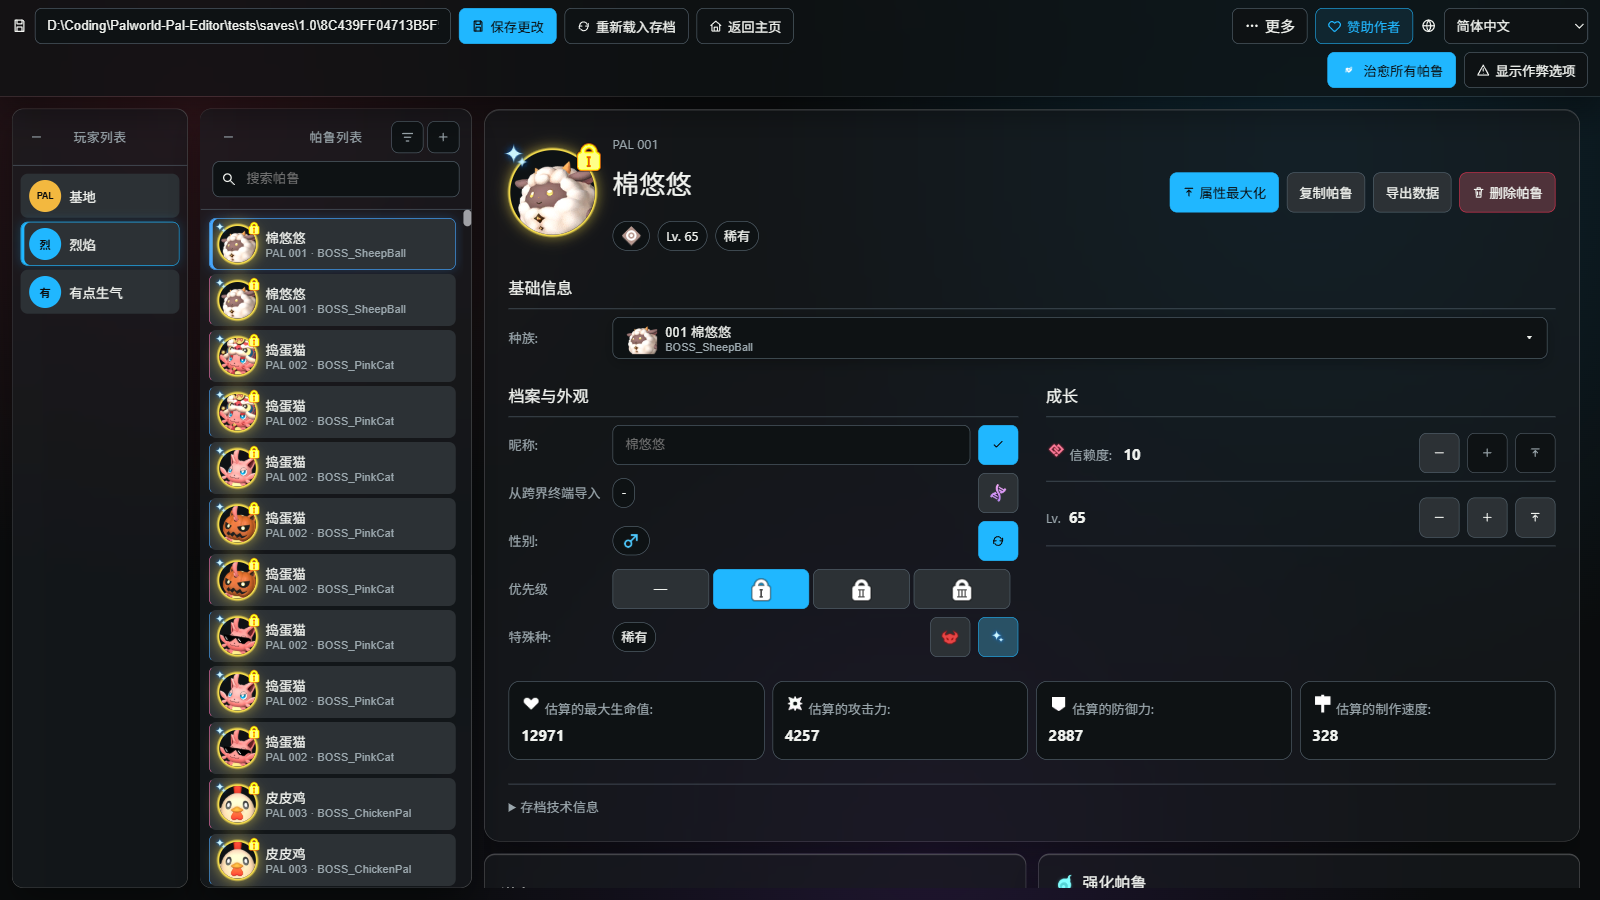
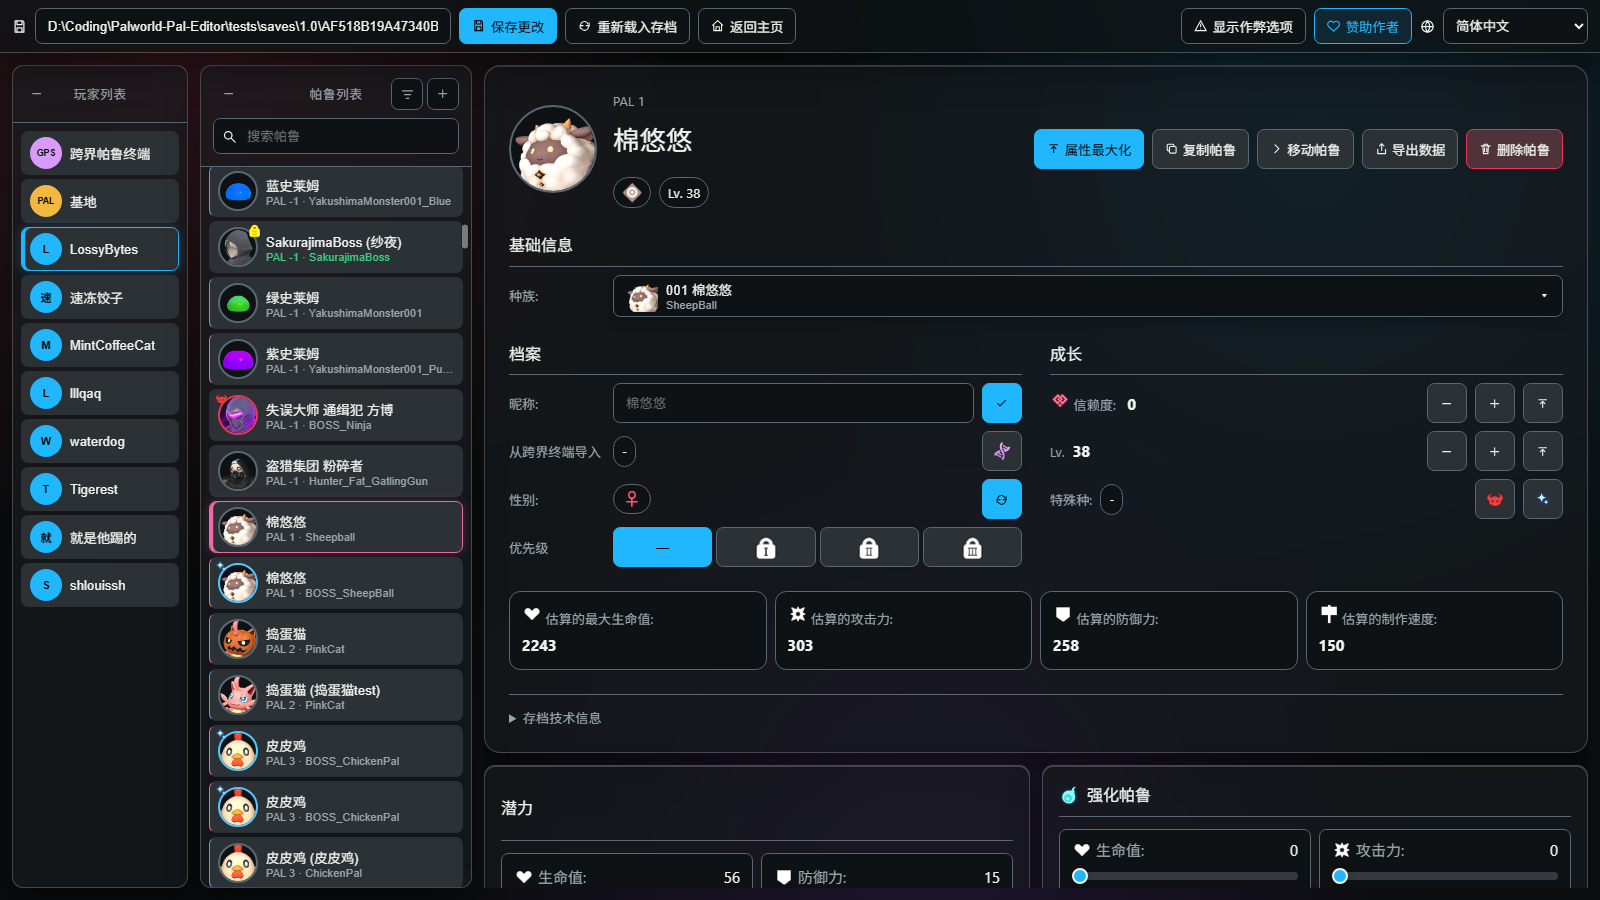
docs: the README covers Pal storage, base camp research and item repair
Two feature sections that had no entry at all: moving Pals between every
container a save has, including Dimensional Pal Storage and Global Pal Storage,
and editing the guild's Pal Labor Research Laboratory. Smaller additions where
the behaviour already changed: passive skills split into Pal, regular and
Partner groups, skill internals under cheat mode, restoring a worn item, the
WebUI as a progressive web app, and settings and templates living in the
platform's user data directory.

The screenshots were shot on 2026-08-14 and predate the Move Pal button, the
editor's section polish and the skill split, so all of them are retaken against
the tracked test save -- the hero previously showed a path under Downloads.
Same as before: lossless WEBP, 1600x900 for the feature sections and 1600x1000
for the two full-page shots, in both languages.

diff --git a/README.md b/README.md
@@ -20,7 +20,7 @@
 
 
 <p align="center">
-  A feature-rich Palworld save editor for players, Pals, Technology, inventories, and more — available as a desktop GUI, WebUI, CLI, and Docker container.
+  A feature-rich Palworld save editor for players, Pals, Pal storage, base camps, Technology, inventories, and more — available as a desktop GUI, WebUI, CLI, and Docker container.
 </p>
 
 ![Palworld Pal Editor](.github/assets/readme-pal-editor-en.webp)
@@ -39,6 +39,8 @@
 - [Features](#features)
   - [General](#general)
   - [Pals](#pals)
+  - [Pal storage and transfers](#pal-storage-and-transfers)
+  - [Base camp and guild research](#base-camp-and-guild-research)
   - [Templates and bulk operations](#templates-and-bulk-operations)
   - [Players](#players)
   - [Inventory](#inventory)
@@ -54,7 +56,7 @@
 
 **A Palworld Pal Editor developed by \_connlost with ❤.**
 
-Palworld Pal Editor is a feature-rich save editor that supports player, Pal, Technology, inventory, and other save modifications. Run it as a desktop GUI, WebUI, CLI, or Docker container.
+Palworld Pal Editor is a feature-rich save editor that supports player, Pal, Pal storage, base-camp research, Technology, inventory, and other save modifications. Run it as a desktop GUI, WebUI, CLI, or Docker container.
 
 > [!NOTE]
 > Steam save root: `%LOCALAPPDATA%\Pal\Saved\SaveGames`
@@ -92,12 +94,12 @@ For most users, the pre-built desktop application is recommended. It does not re
 ![Pal lists and filters](.github/assets/readme-features-general-en.webp)
 
 - [x] List players and their Pals
-- [x] Edit base-camp Pals
 - [x] Search Pals
 - [x] Sort Pals
 - [x] Filter Pals
 - [x] Show Pals outside their normal containers
 - [x] Enable normally unavailable options through cheat mode
+- [x] Show skill and Pal internal names in cheat mode
 
 ### Pals
 
@@ -121,11 +123,31 @@ For most users, the pre-built desktop application is recommended. It does not re
 - [x] Edit work suitability
 - [x] Edit equipped active skills
 - [x] Edit learned active skills
-- [x] Edit passive skills
+- [x] Edit passive skills, listed separately as Pal, regular, and Partner skills
 - [x] Heal and revive Pals
 - [x] Heal all Pals
 - [x] Maximize Pal progression within legal limits
 - [x] Delete Pals
+
+### Pal storage and transfers
+
+![Pal storage and transfers](.github/assets/readme-features-storage-en.webp)
+
+- [x] Browse every container a save has: party, Palbox, base camp, viewing cage, Dimensional Pal Storage, and Global Pal Storage
+- [x] Move a Pal to any container of any player, base camp, or storage
+- [x] Edit and clone Pals that live in Dimensional Pal Storage or Global Pal Storage
+- [x] Resolve a Global Pal Storage slot that is already taken, by overwriting it or by jumping to the Pal holding it
+- [x] Create a Pal directly in a chosen destination container
+
+### Base camp and guild research
+
+![Guild laboratory research](.github/assets/readme-features-basecamp-en.webp)
+
+- [x] Edit the base camp's worker Pals
+- [x] Edit the guild's Pal Labor Research Laboratory
+- [x] Complete a single research node, a whole category, or every category at once
+- [x] Switch between guilds in a save that holds more than one
+- [x] Read research names, effects, and material costs from the game's own data
 
 ### Templates and bulk operations
 
@@ -185,6 +207,7 @@ For most users, the pre-built desktop application is recommended. It does not re
 - [x] Edit Pal Sphere modules
 - [x] Edit equipped food
 - [x] Edit item quantities
+- [x] Restore a worn item to full durability and a full magazine
 - [x] Clear inventory slots
 
 ## Installation and Running
@@ -230,6 +253,8 @@ palworld-pal-editor.exe --mode web --port 58080 --password "choose-a-strong-pass
 
 When using a separately hosted frontend, choose the backend from the server menu at the top-right of the entry page.
 
+The WebUI is a progressive web app: a browser can install it to the desktop or home screen, and it keeps its interface and Pal images cached between runs.
+
 ## Command-line Options
 
 ```text
@@ -242,7 +267,7 @@ When using a separately hosted frontend, choose the backend from the server menu
 --nocli              Disable the interactive CLI in GUI/WebUI mode
 ```
 
-Run `palworld-pal-editor.exe --help` for the current list. Command-line values override `config.json`; the application manages that file automatically.
+Run `palworld-pal-editor.exe --help` for the current list. Command-line values override `config.json`; the application manages that file automatically. Settings, saved templates, and logs are kept in the platform's user data directory.
 
 ## Guides
 

diff --git a/README.cn.md b/README.cn.md
@@ -20,7 +20,7 @@
 
 
 <p align="center">
-  功能丰富的《幻兽帕鲁》存档修改器，支持玩家、帕鲁、科技、背包等内容，并可通过桌面 GUI、WebUI、CLI 或 Docker 运行。
+  功能丰富的《幻兽帕鲁》存档修改器，支持玩家、帕鲁、帕鲁存放、基地、科技、背包等内容，并可通过桌面 GUI、WebUI、CLI 或 Docker 运行。
 </p>
 
 ![Palworld Pal Editor](.github/assets/readme-pal-editor-zh.webp)
@@ -39,6 +39,8 @@
 - [功能](#功能)
   - [通用](#通用)
   - [帕鲁](#帕鲁)
+  - [帕鲁存放与转移](#帕鲁存放与转移)
+  - [基地与公会研究](#基地与公会研究)
   - [模板与批量操作](#模板与批量操作)
   - [玩家](#玩家)
   - [物品栏](#物品栏)
@@ -54,7 +56,7 @@
 
 **由 \_connlost 用 ❤ 开发的《幻兽帕鲁》帕鲁修改器。**
 
-Palworld Pal Editor 是一个功能丰富的存档修改器，支持修改玩家、帕鲁、科技、背包等存档内容，并可通过桌面 GUI、WebUI、CLI 或 Docker 容器运行。
+Palworld Pal Editor 是一个功能丰富的存档修改器，支持修改玩家、帕鲁、帕鲁存放、基地研究、科技、背包等存档内容，并可通过桌面 GUI、WebUI、CLI 或 Docker 容器运行。
 
 > [!NOTE]
 > Steam 存档根目录：`%LOCALAPPDATA%\Pal\Saved\SaveGames`
@@ -92,12 +94,12 @@ Palworld Pal Editor 完整支持 Deutsch、English、Español、Español (Méxic
 ![帕鲁列表与筛选](.github/assets/readme-features-general-zh.webp)
 
 - [x] 列出玩家及其帕鲁
-- [x] 修改基地帕鲁
 - [x] 搜索帕鲁
 - [x] 对帕鲁排序
 - [x] 筛选帕鲁
 - [x] 显示不在常规容器中的帕鲁
 - [x] 通过作弊模式启用通常不可用的选项
+- [x] 在作弊模式下显示技能与帕鲁的内部名称
 
 ### 帕鲁
 
@@ -121,11 +123,31 @@ Palworld Pal Editor 完整支持 Deutsch、English、Español、Español (Méxic
 - [x] 修改工作适应性
 - [x] 修改装备的主动技能
 - [x] 修改学会的主动技能
-- [x] 修改被动技能
+- [x] 修改被动技能，并区分帕鲁被动、普通被动与伙伴技能
 - [x] 治愈和复活帕鲁
 - [x] 治愈所有帕鲁
 - [x] 在合法范围内最大化帕鲁属性
 - [x] 删除帕鲁
+
+### 帕鲁存放与转移
+
+![帕鲁存放与转移](.github/assets/readme-features-storage-zh.webp)
+
+- [x] 浏览存档中的所有容器：队伍、帕鲁终端、基地、观赏笼、帕鲁次元仓库与跨界帕鲁终端
+- [x] 将帕鲁移动到任意玩家、基地或存放处的容器
+- [x] 修改和复制存放在帕鲁次元仓库或跨界帕鲁终端中的帕鲁
+- [x] 处理跨界帕鲁终端中已被占用的槽位：覆盖原有帕鲁，或直接跳转到该帕鲁
+- [x] 在指定的目标容器中直接创建帕鲁
+
+### 基地与公会研究
+
+![公会帕鲁工作研究所](.github/assets/readme-features-basecamp-zh.webp)
+
+- [x] 修改基地中工作的帕鲁
+- [x] 修改公会的帕鲁工作研究所
+- [x] 完成单项研究、整个类别，或一次完成全部研究
+- [x] 在包含多个公会的存档中切换公会
+- [x] 研究名称、效果与所需材料均取自游戏数据
 
 ### 模板与批量操作
 
@@ -185,6 +207,7 @@ Palworld Pal Editor 完整支持 Deutsch、English、Español、Español (Méxic
 - [x] 修改帕鲁球模块
 - [x] 修改装备的食物
 - [x] 修改物品数量
+- [x] 将磨损的物品恢复到满耐久与满弹药
 - [x] 清空物品栏槽位
 
 ## 安装与运行
@@ -230,6 +253,8 @@ palworld-pal-editor.exe --mode web --port 58080 --password "请设置强密码"
 
 使用独立部署的前端时，请通过入口页面右上角的服务器菜单选择后端。
 
+WebUI 是一个渐进式网页应用（PWA）：浏览器可以将它安装到桌面或主屏幕，界面与帕鲁图片也会在多次运行之间保留缓存。
+
 ## 命令行参数
 
 ```text
@@ -242,7 +267,7 @@ palworld-pal-editor.exe --mode web --port 58080 --password "请设置强密码"
 --nocli              在 GUI/WebUI 模式中禁用交互式 CLI
 ```
 
-运行 `palworld-pal-editor.exe --help` 可查看当前参数。命令行参数会覆盖 `config.json`；通常不需要手动编辑该文件。
+运行 `palworld-pal-editor.exe --help` 可查看当前参数。命令行参数会覆盖 `config.json`；通常不需要手动编辑该文件。设置、已保存的模板与日志存放在系统的用户数据目录中。
 
 ## 视频教程
 
